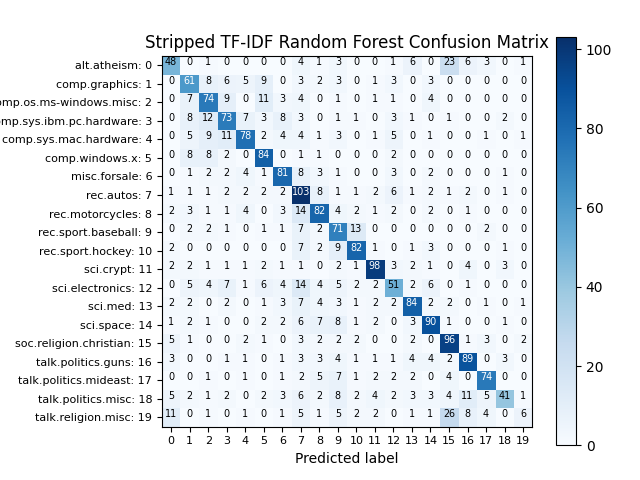
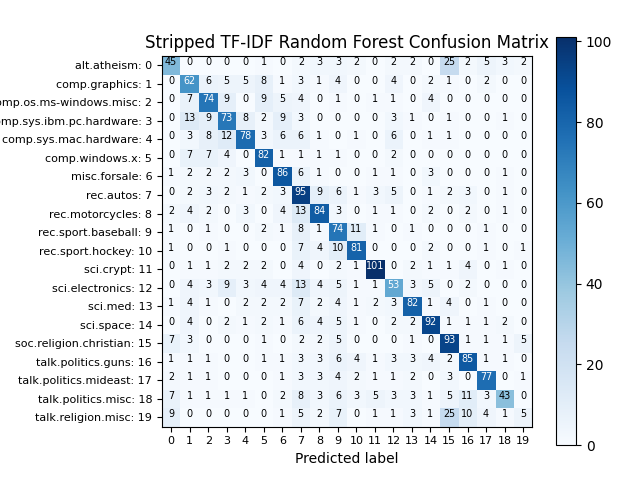
updating

diff --git a/Class_project.py b/Class_project.py
@@ -206,12 +206,18 @@ if bag_of_words:
     predicted = text_bow.predict(X_validation)
     print(np.mean(predicted == y_validation))
     
+    graph_title = None
+    if remove_extra_data_bool: graph_title = "Stripped Bag of Words Naive Bayes"
+    else: graph_title = "Bag of Words Naive Bayes"
+
     #print (metrics.classification_report(y_validation, predicted))
-    conf_matrix = confusion_matrix(y_validation, predicted)
-    vis = ConfusionMatrixDisplay(confusion_matrix=conf_matrix, display_labels=text_bow.classes_)
-    vis.plot()
-    plt.title("Bag_of_words and Multinomial Naive Bayes")
-    plt.savefig(f'{fig_path}/xBOFMNB.png')
+    cm = confusion_matrix(y_validation, predicted)
+    plot_confusion_matrix(cm, categories, title = graph_title)
+    
+    # vis = ConfusionMatrixDisplay(confusion_matrix=conf_matrix, display_labels=text_bow.classes_)
+    # vis.plot()
+    # plt.title("Bag_of_words and Multinomial Naive Bayes")
+    # plt.savefig(f'{fig_path}/xBOFMNB.png')
     #plt.show()
     
     # Investigate count vectorizer more, maybe create histograms. This would be a good place to explore class differences
@@ -221,11 +227,11 @@ if bag_of_words:
     # Inverse document frequency decreases the weights of words based on how often they appear in many documents
 
 run_experiment_bool = False
-tfidf_bool = False
-naive_bayes_bool = False
-svm_bool = False
-random_forest_bool = False
-run_final_experiment = True
+tfidf_bool = True
+naive_bayes_bool = True
+svm_bool = True
+random_forest_bool = True
+run_final_experiment = False
 
 if tfidf_bool:
     # count_vect = CountVectorizer()
@@ -234,7 +240,7 @@ if tfidf_bool:
     # X_train_tfidf = tfidf_transformer.fit_transform(X_train_counts)
     # print(tfidf_transformer.vocabulary_)
 
-    tf_idf_vectorizer = TfidfVectorizer(max_features = 100, max_df = 1000, min_df = 50)
+    tf_idf_vectorizer = TfidfVectorizer(ngram_range = (1,2), max_features = 100, max_df = 500, min_df = 100)
     tf_idf_counts = tf_idf_vectorizer.fit_transform(X_train)
 
     feature_names = tf_idf_vectorizer.get_feature_names_out()
@@ -246,6 +252,18 @@ if tfidf_bool:
     Cloud = WordCloud(background_color="white").generate_from_frequencies(df.T.sum(axis=1))
     Cloud.to_file(f'{fig_path}/tf_idf_cloud.png')
     
+    # tf_idf_vectorizer = TfidfVectorizer()
+    # tf_idf_counts = tf_idf_vectorizer.fit_transform(twenty_train.data)
+    
+    # feature_names = tf_idf_vectorizer.get_feature_names_out()
+    # dense = tf_idf_counts.todense()
+    # lst1 = dense.tolist()
+    # df = pd.DataFrame(lst1, columns=feature_names)
+    # #print(df.head)
+    # x = tf_idf_vectorizer.vocabulary_
+    # Cloud = WordCloud(background_color="white").generate_from_frequencies(df.T.sum(axis=1))
+    # Cloud.to_file(f'{fig_path}/tf_idf_cloud_all_words.png')
+
     #print(tf_idf_counts)
     #print(tf_idf_counts.idf_)
     # print(X_train_tfidf.shape)
@@ -271,9 +289,9 @@ if tfidf_bool:
         # Create a pipeline that performs the three relevant functions
         text_clf = Pipeline([('vect', CountVectorizer()), ('tfidf', TfidfTransformer()), ('clf', MultinomialNB()),])
 
-        # scores = cross_val_score(text_clf, twenty_train.data, twenty_train.target, cv=5)
-        # print(scores)
-        # print(scores.mean())
+        scores = cross_val_score(text_clf, twenty_train.data, twenty_train.target, cv=5)
+        print(scores)
+        print(scores.mean())
 
         text_clf.fit(X_train, y_train)
         predicted = text_clf.predict(X_validation)
@@ -326,10 +344,10 @@ if tfidf_bool:
             #Best parameters{'clf__alpha': 0.0001, 'vect__ngram_range': (1, 2)}
 
 
-        # predicted = text_clf.predict(X_validation)
+        predicted = text_clf.predict(X_validation)
         # # # The predicted value of the tf-idf validation set is 0.891
-        # print("Prediction accuracy on validation set is: ", np.mean(predicted == y_validation))
-        # print (metrics.classification_report(y_validation, predicted))
+        print("Prediction accuracy on validation set is: ", np.mean(predicted == y_validation))
+        print (metrics.classification_report(y_validation, predicted))
 
         # graph_title = None
         # if remove_extra_data_bool: graph_title = "Stripped TF-IDF SVM Confusion Matrix"
@@ -381,9 +399,9 @@ if random_forest_bool:
     tf_idf_counts = tf_idf_vectorizer.fit_transform(twenty_train.data)
 
     rf = RandomForestClassifier()
-    # scores = cross_val_score(rf, tf_idf_counts, twenty_train.target, cv=5)
-    # print(scores)
-    # print(scores.mean())
+    scores = cross_val_score(rf, tf_idf_counts, twenty_train.target, cv=5)
+    print(scores)
+    print(scores.mean())
     #[0.83296509 0.81926646 0.84489616 0.837384   0.83510168]
     # Average cross Val score: 0.8339226780097153
 
